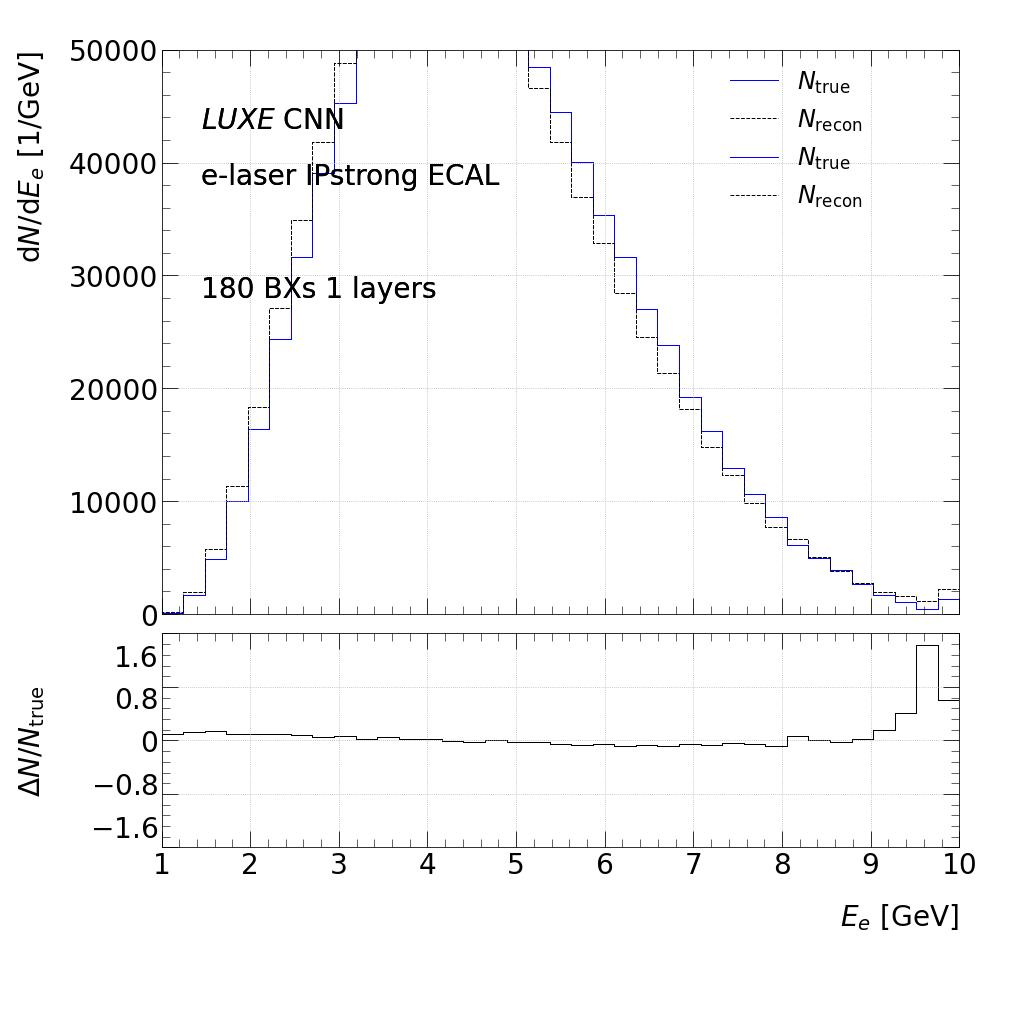
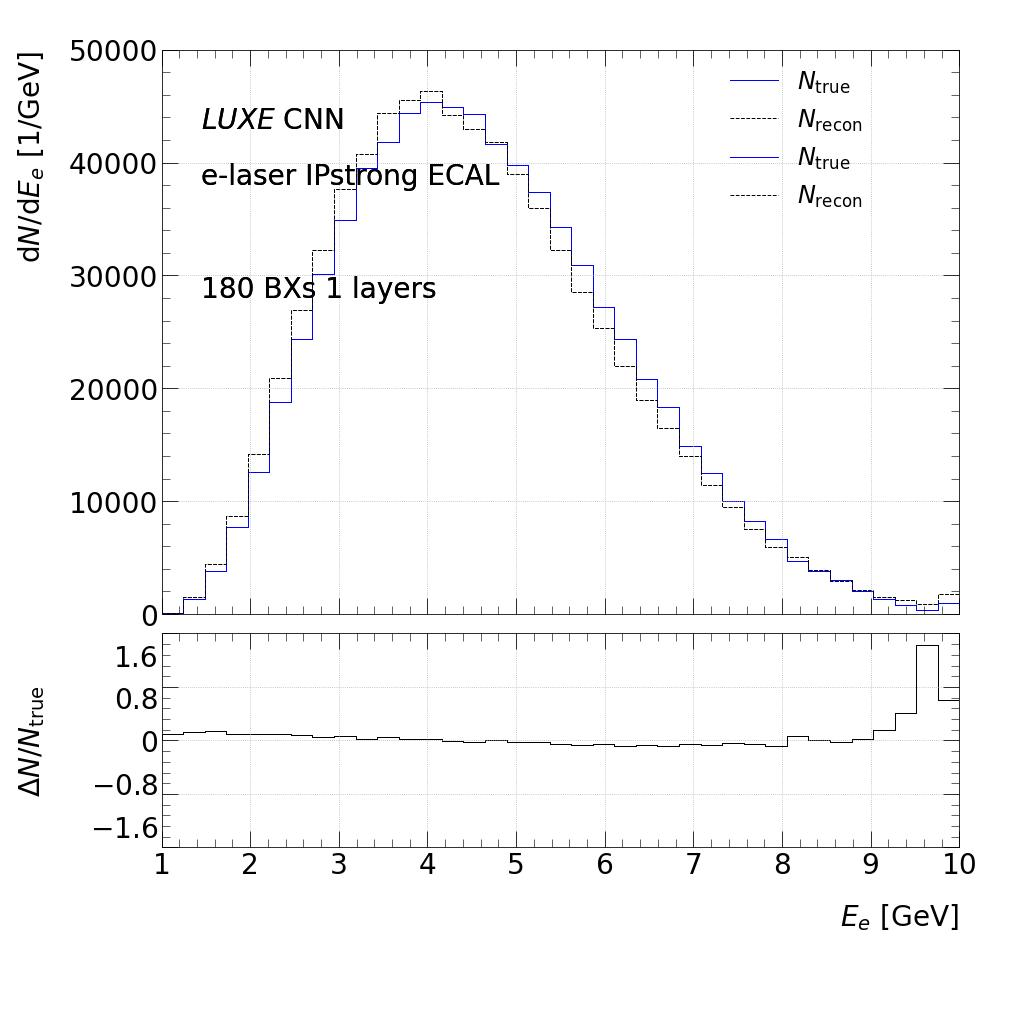
u

diff --git a/shan_scripts/plots.py b/shan_scripts/plots.py
@@ -22,8 +22,8 @@ def hist(xx, yy1, yy2, location):
     ax.set_ylim(0,50000)
     data1 = numpy.random.normal(0,1, 10000)
     _, xx = numpy.histogram(data1, bins=37, range=(1,10))
-    yy1 /= ((10-1) / 48)
-    yy2 /= ((10-1) / 48)
+    yy1 /= ((10-1) / yy1.shape[0])
+    yy2 /= ((10-1) / yy2.shape[0])
     ax1.stairs(yy1,xx, fill=False, color='b', linestyle='-', label=r"$N_\mathregular{true}$")
     ax1.stairs(yy2,xx, fill=False, color='k', linestyle='--', label=r"$N_\mathregular{recon}$")
     ax2.stairs(residue_normalised,xx, color='k')
